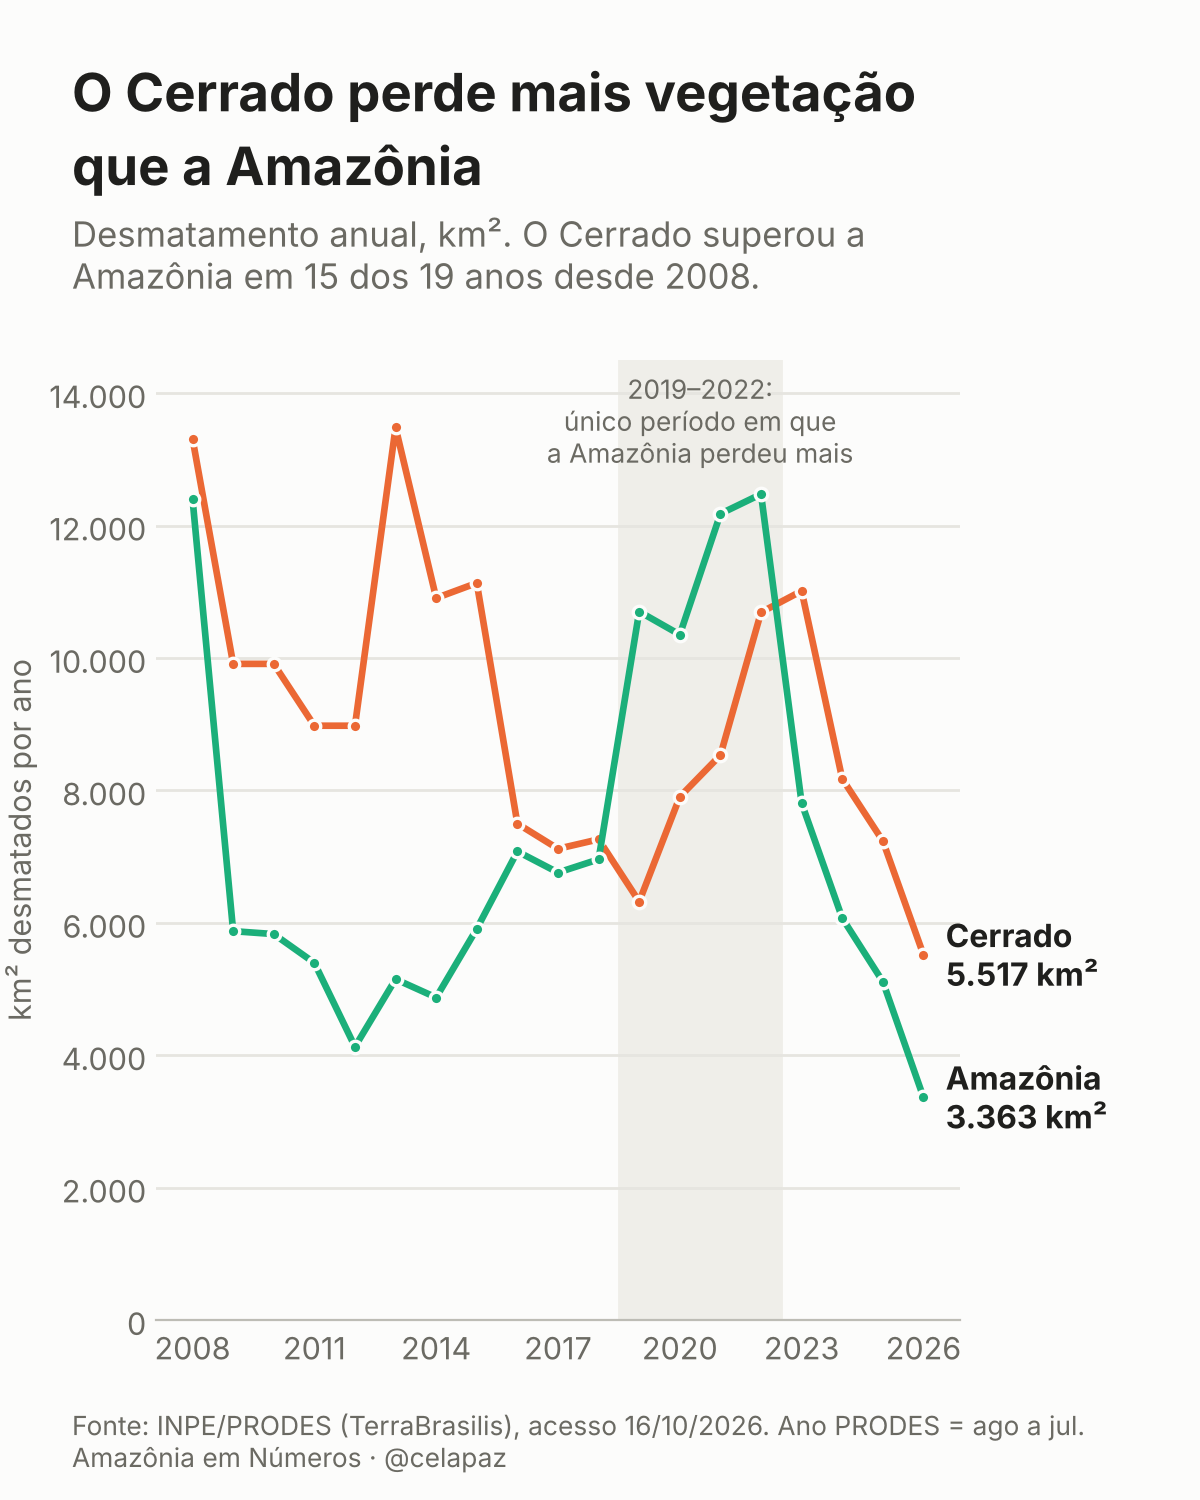
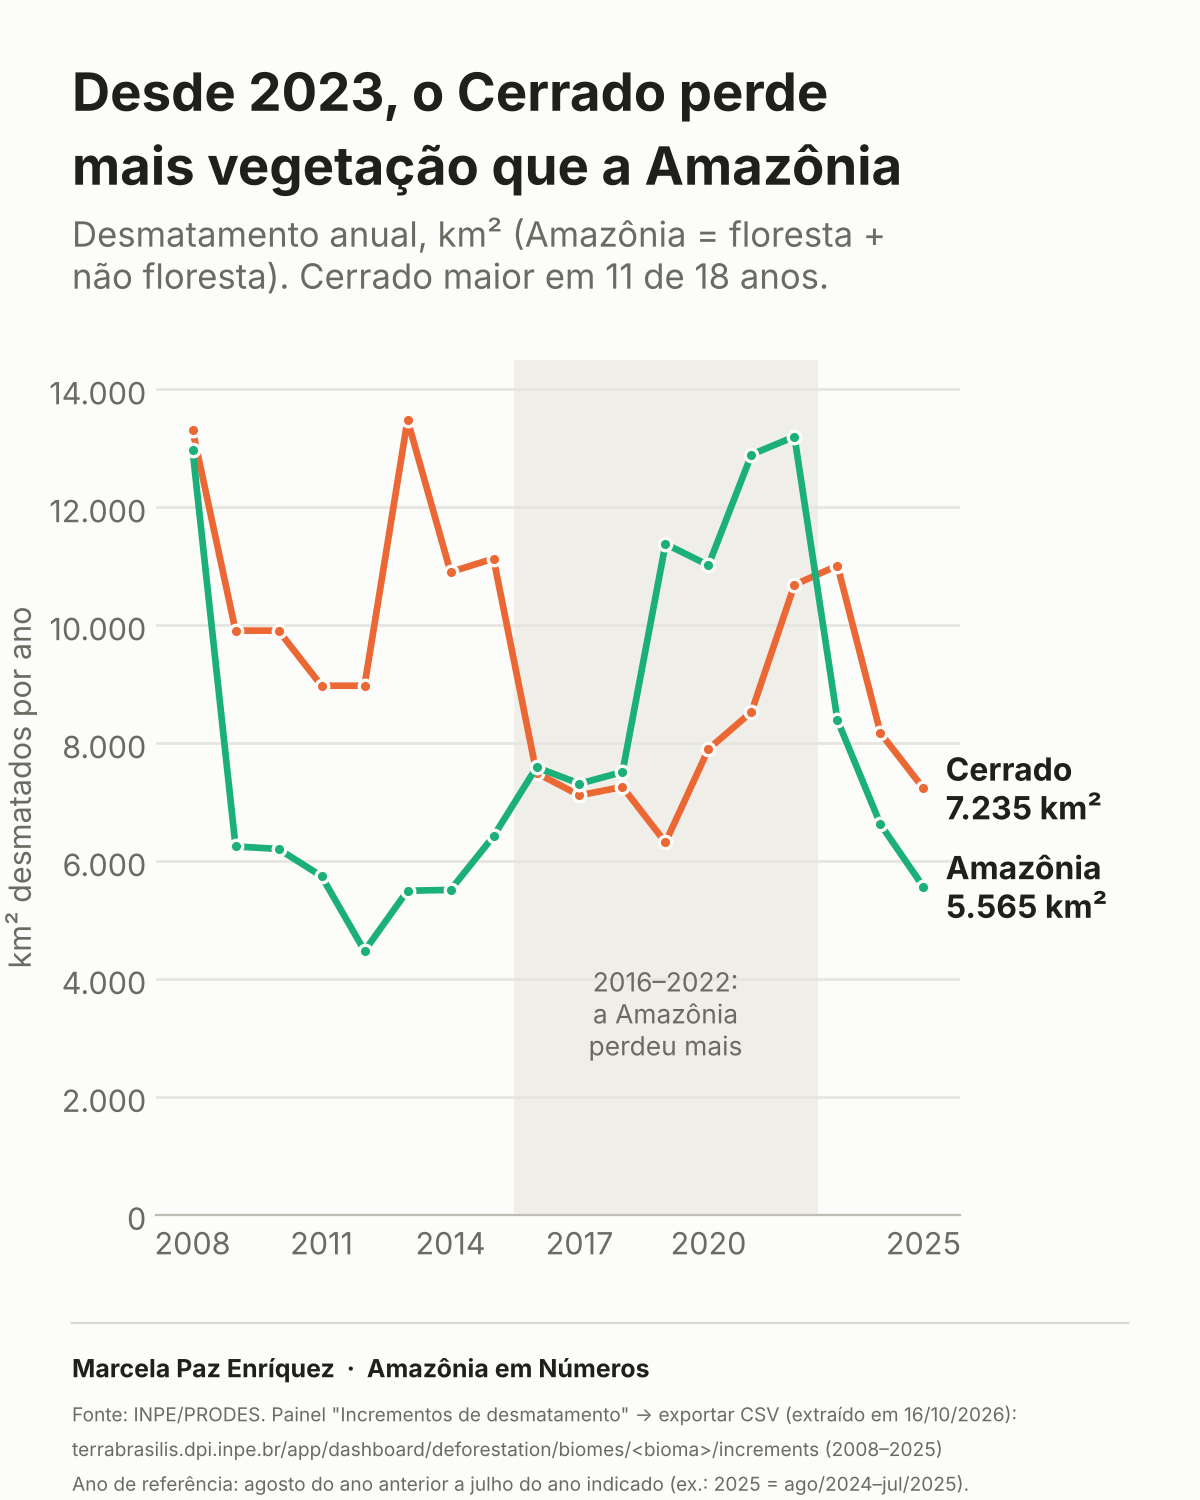
Add files via upload

diff --git a/README.md b/README.md
@@ -1,4 +1,4 @@
-# 🌳 Amazônia em Números
+# Amazônia em Números
 
 Dados abertos da série **Amazônia em Números**, publicada no LinkedIn e no Instagram por **Marcela Paz da Silva Enriquez**, economista paraense e mestranda em Ciências Econômicas (UFF), com foco em finanças verdes e desenvolvimento sustentável.
 
@@ -6,19 +6,16 @@ Todos os números vêm **direto da fonte oficial**, com o dado bruto, o script d
 
 ---
 
-## #1 — O Cerrado perde mais vegetação que a Amazônia
+## #1. Desde 2023, o Cerrado perde mais vegetação que a Amazônia
 
-![Amazônia x Cerrado](graficos/01_amazonia_x_cerrado.png)
+![Cerrado x Amazônia](graficos/01_amazonia_x_cerrado.png)
 
-Na rota Rio–Belém, a janela do avião mostra primeiro o agro do Cerrado e depois a floresta amazônica. Os dados do INPE mostram o que essa paisagem esconde:
+Na rota Rio–Belém, o avião cruza o Cerrado de Goiás e do Tocantins antes de chegar à floresta. A série do PRODES/INPE (2008–2026) mostra:
 
-| | |
-|---|---|
-| 🟧 **15 de 19 anos** | Desde 2008, o Cerrado perdeu mais vegetação que a Amazônia em 15 anos. A exceção foi 2019–2022. |
-| 🟩 **3.363 km²** | Desmatamento no bioma Amazônia em 2026, o menor da série desde 2008. |
-| 📉 **−73%** | Queda na Amazônia entre o pico de 2022 (12.474 km²) e 2026. |
-| 🟧 **45%** | Participação do Cerrado em todo o desmatamento do Brasil em 2025 (7.235 de 16.089 km²). |
-| 🌎 **173.856 km²** | Vegetação perdida no Cerrado entre 2008 e 2026, contra 138.398 km² na Amazônia. |
+- Comparando toda a vegetação nativa (na Amazônia, floresta + não floresta), o Cerrado teve mais área desmatada em **11 dos 18 anos** entre 2008 e 2025. A Amazônia perdeu mais entre 2016 e 2022; desde 2023, o Cerrado voltou a liderar.
+- Na floresta do bioma Amazônia, o desmatamento caiu de **12.474 km² (2022)** para **3.363 km² (2026)**, queda de 73% e menor valor desde 2008. O dado de 2026 pode ser preliminar.
+- Em 2025, o Cerrado respondeu por **45%** da área desmatada no país (7.235 de 16.089 km²).
+- Entre 2008 e 2025, o Cerrado perdeu **168.339 km²** de vegetação nativa, contra 144.598 km² no bioma Amazônia.
 
 <p>
   <img src="graficos/02_amazonia_serie.png" width="48%">
@@ -36,6 +33,7 @@ dados/
 R/
   prodes_biomas.R             ← trata os brutos e gera os gráficos
 graficos/                     ← PNGs 4:5 usados nos posts
+posts/                        ← texto de cada post publicado
 ```
 
 Para reproduzir: abra o RStudio na pasta do repositório e rode `R/prodes_biomas.R`.
@@ -46,13 +44,15 @@ Para reproduzir: abra o RStudio na pasta do repositório e rode `R/prodes_biomas
 - **Ano PRODES:** vai de agosto do ano anterior a julho do ano indicado (2026 = ago/2025 a jul/2026).
 - **Bioma Amazônia ≠ Amazônia Legal.** Aqui o recorte é o bioma, separado em floresta e não floresta. A taxa da Amazônia Legal, mais citada na imprensa, inclui áreas de Cerrado e por isso é maior.
 - **Mapeamento bienal:** nos primeiros anos, Cerrado, Caatinga, Mata Atlântica, Pampa e Pantanal foram mapeados a cada dois anos, e o valor aparece dividido igualmente entre os dois anos. Esses casos estão marcados na coluna `mapeamento_bienal` e não têm variação anual calculada.
-- **2026:** só Amazônia (floresta) e Cerrado já têm valor de 2026 no painel. Confira no TerraBrasilis se o número ainda é preliminar antes de citá-lo como taxa consolidada.
+- **Comparabilidade Amazônia × Cerrado:** o PRODES Cerrado mede a supressão de toda a vegetação nativa (savanas, campos e florestas). Por isso, na comparação, a Amazônia soma as séries de floresta e não floresta. Usar só a floresta subestima a Amazônia e infla a vantagem do Cerrado.
+- **2026:** só Amazônia (floresta) e Cerrado já têm valor de 2026 no painel, e a série de não floresta termina em 2025. Por isso a comparação vai até 2025. Confira no TerraBrasilis se os números de 2026 ainda são preliminares.
+- **Variação anual:** não é calculada em anos de mapeamento bienal nem no ano seguinte a eles.
 
 ## Posts da série
 
 | # | Tema | Link |
 |---|---|---|
-| 1 | O Cerrado perde mais vegetação que a Amazônia | _(link do post)_ |
+| 1 | [Desde 2023, o Cerrado perde mais vegetação que a Amazônia](posts/01_cerrado_no_caminho_para_belem.md) | _(link do post)_ |
 
 ---
 

diff --git a/posts/01_cerrado_no_caminho_para_belem.md b/posts/01_cerrado_no_caminho_para_belem.md
@@ -1,0 +1,27 @@
+# Amazônia em Números #1: o Cerrado no caminho para Belém
+
+Sou paraense e moro no Rio. Na rota Rio–Belém, antes da floresta, o avião passa por Goiás e Tocantins: horas de lavoura, pivô e pasto. Quis saber se o que vejo da janela aparece nos dados.
+
+Baixei a série do PRODES/INPE por bioma, de 2008 a 2026. Três resultados:
+
+1. Comparando toda a vegetação nativa, o Cerrado teve mais área desmatada que a Amazônia em 11 dos 18 anos entre 2008 e 2025. A Amazônia liderou entre 2016 e 2022; desde 2023, o Cerrado voltou à frente.
+2. Na floresta amazônica, o desmatamento caiu de 12.474 km² em 2022 para 3.363 km² em 2026, o menor valor desde 2008.
+3. Em 2025, o Cerrado respondeu por 45% de toda a área desmatada no país.
+
+A queda na Amazônia mostra que fiscalização e política pública têm efeito quando há prioridade. No Cerrado, essa mesma prioridade ainda não se traduziu em queda na mesma escala.
+
+Para quem trabalha com crédito e cadeias de commodities, isso muda a pergunta. A conformidade legal não basta como critério de risco. O risco físico, ligado à água e ao regime de chuvas, e o risco de mercado, com regras como a regulação europeia de desmatamento, não distinguem desmatamento legal de ilegal.
+
+Duas notas metodológicas: os números se referem ao bioma Amazônia, não à Amazônia Legal, por isso diferem do valor mais citado na imprensa. E o dado de 2026 deve ser confirmado quando o INPE consolidar a taxa anual.
+
+Dados brutos, script em R e gráficos estão no repositório (link no primeiro comentário).
+
+Para quem atua em crédito rural ou finanças sustentáveis: no Cerrado, o critério deveria ser a legalidade ou o desmatamento zero?
+
+#Cerrado #FinançasSustentáveis #PRODES
+
+---
+
+**Imagens (nesta ordem):** foto da ilha com bancos de areia · `graficos/01_amazonia_x_cerrado.png` · `graficos/02_amazonia_serie.png` · `graficos/03_biomas_2025.png` · foto da asa sobre a floresta.
+
+**Primeiro comentário:** Dados, script e gráficos abertos: github.com/marcelapazenriquez/amazonia-em-numeros
